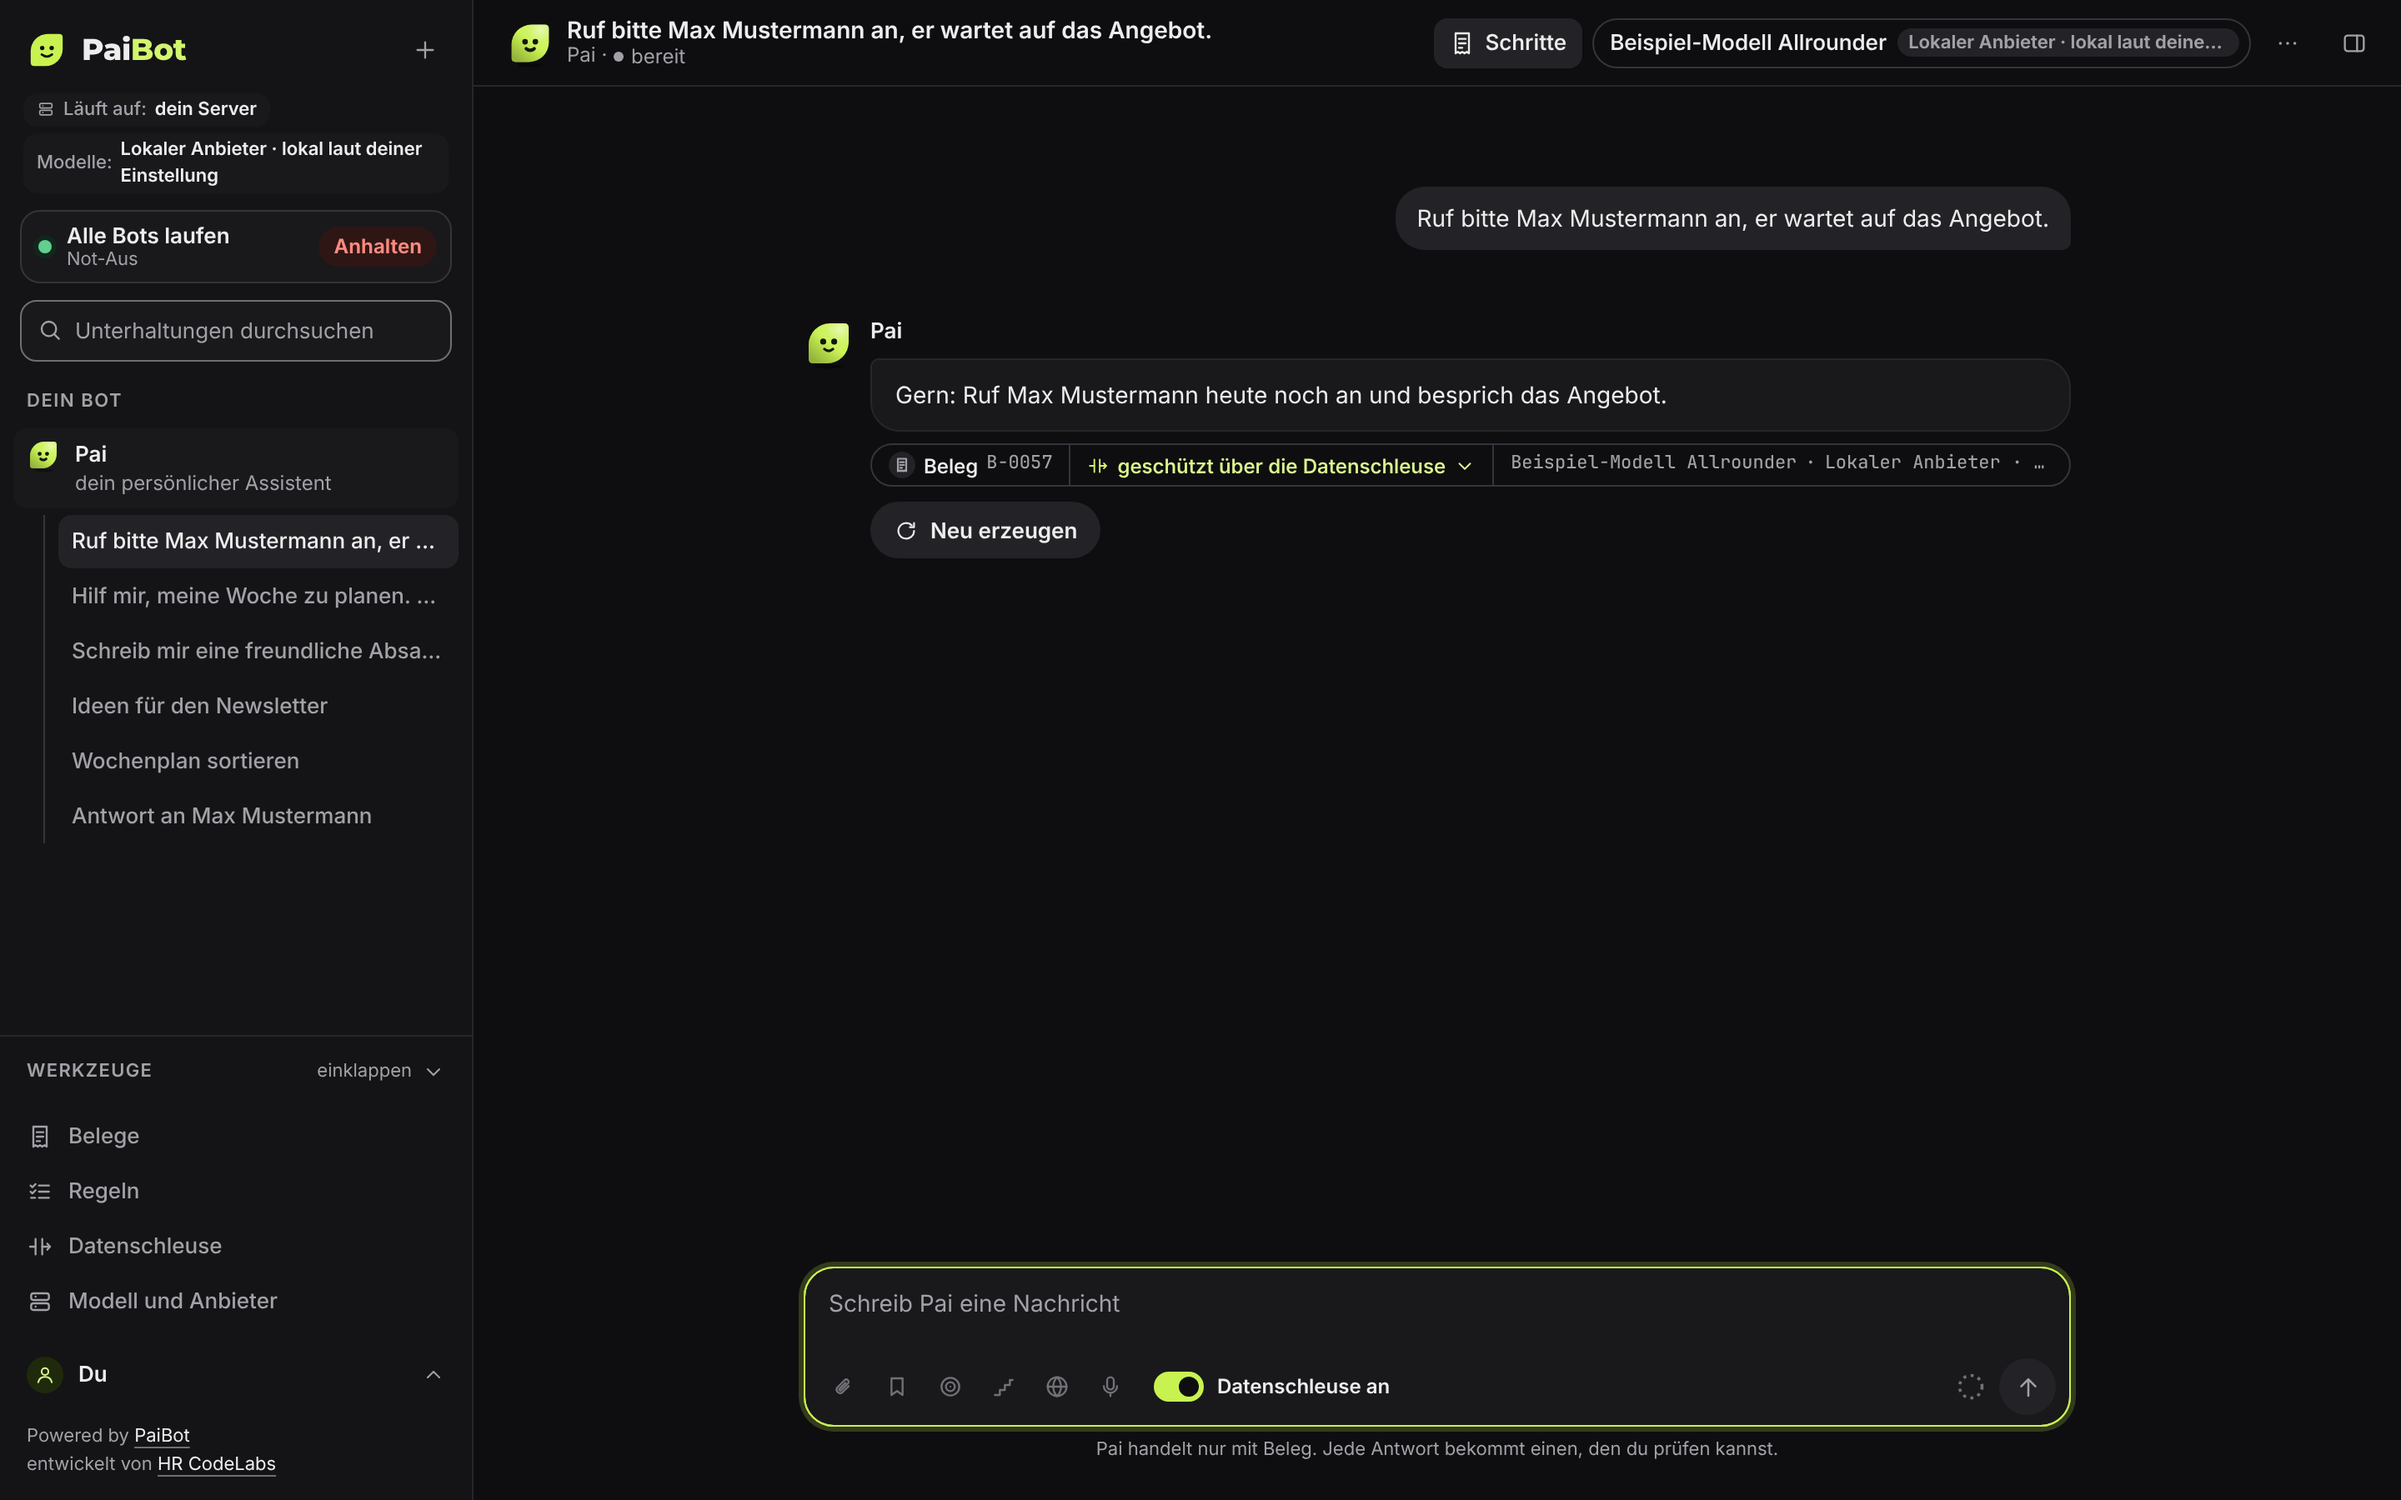
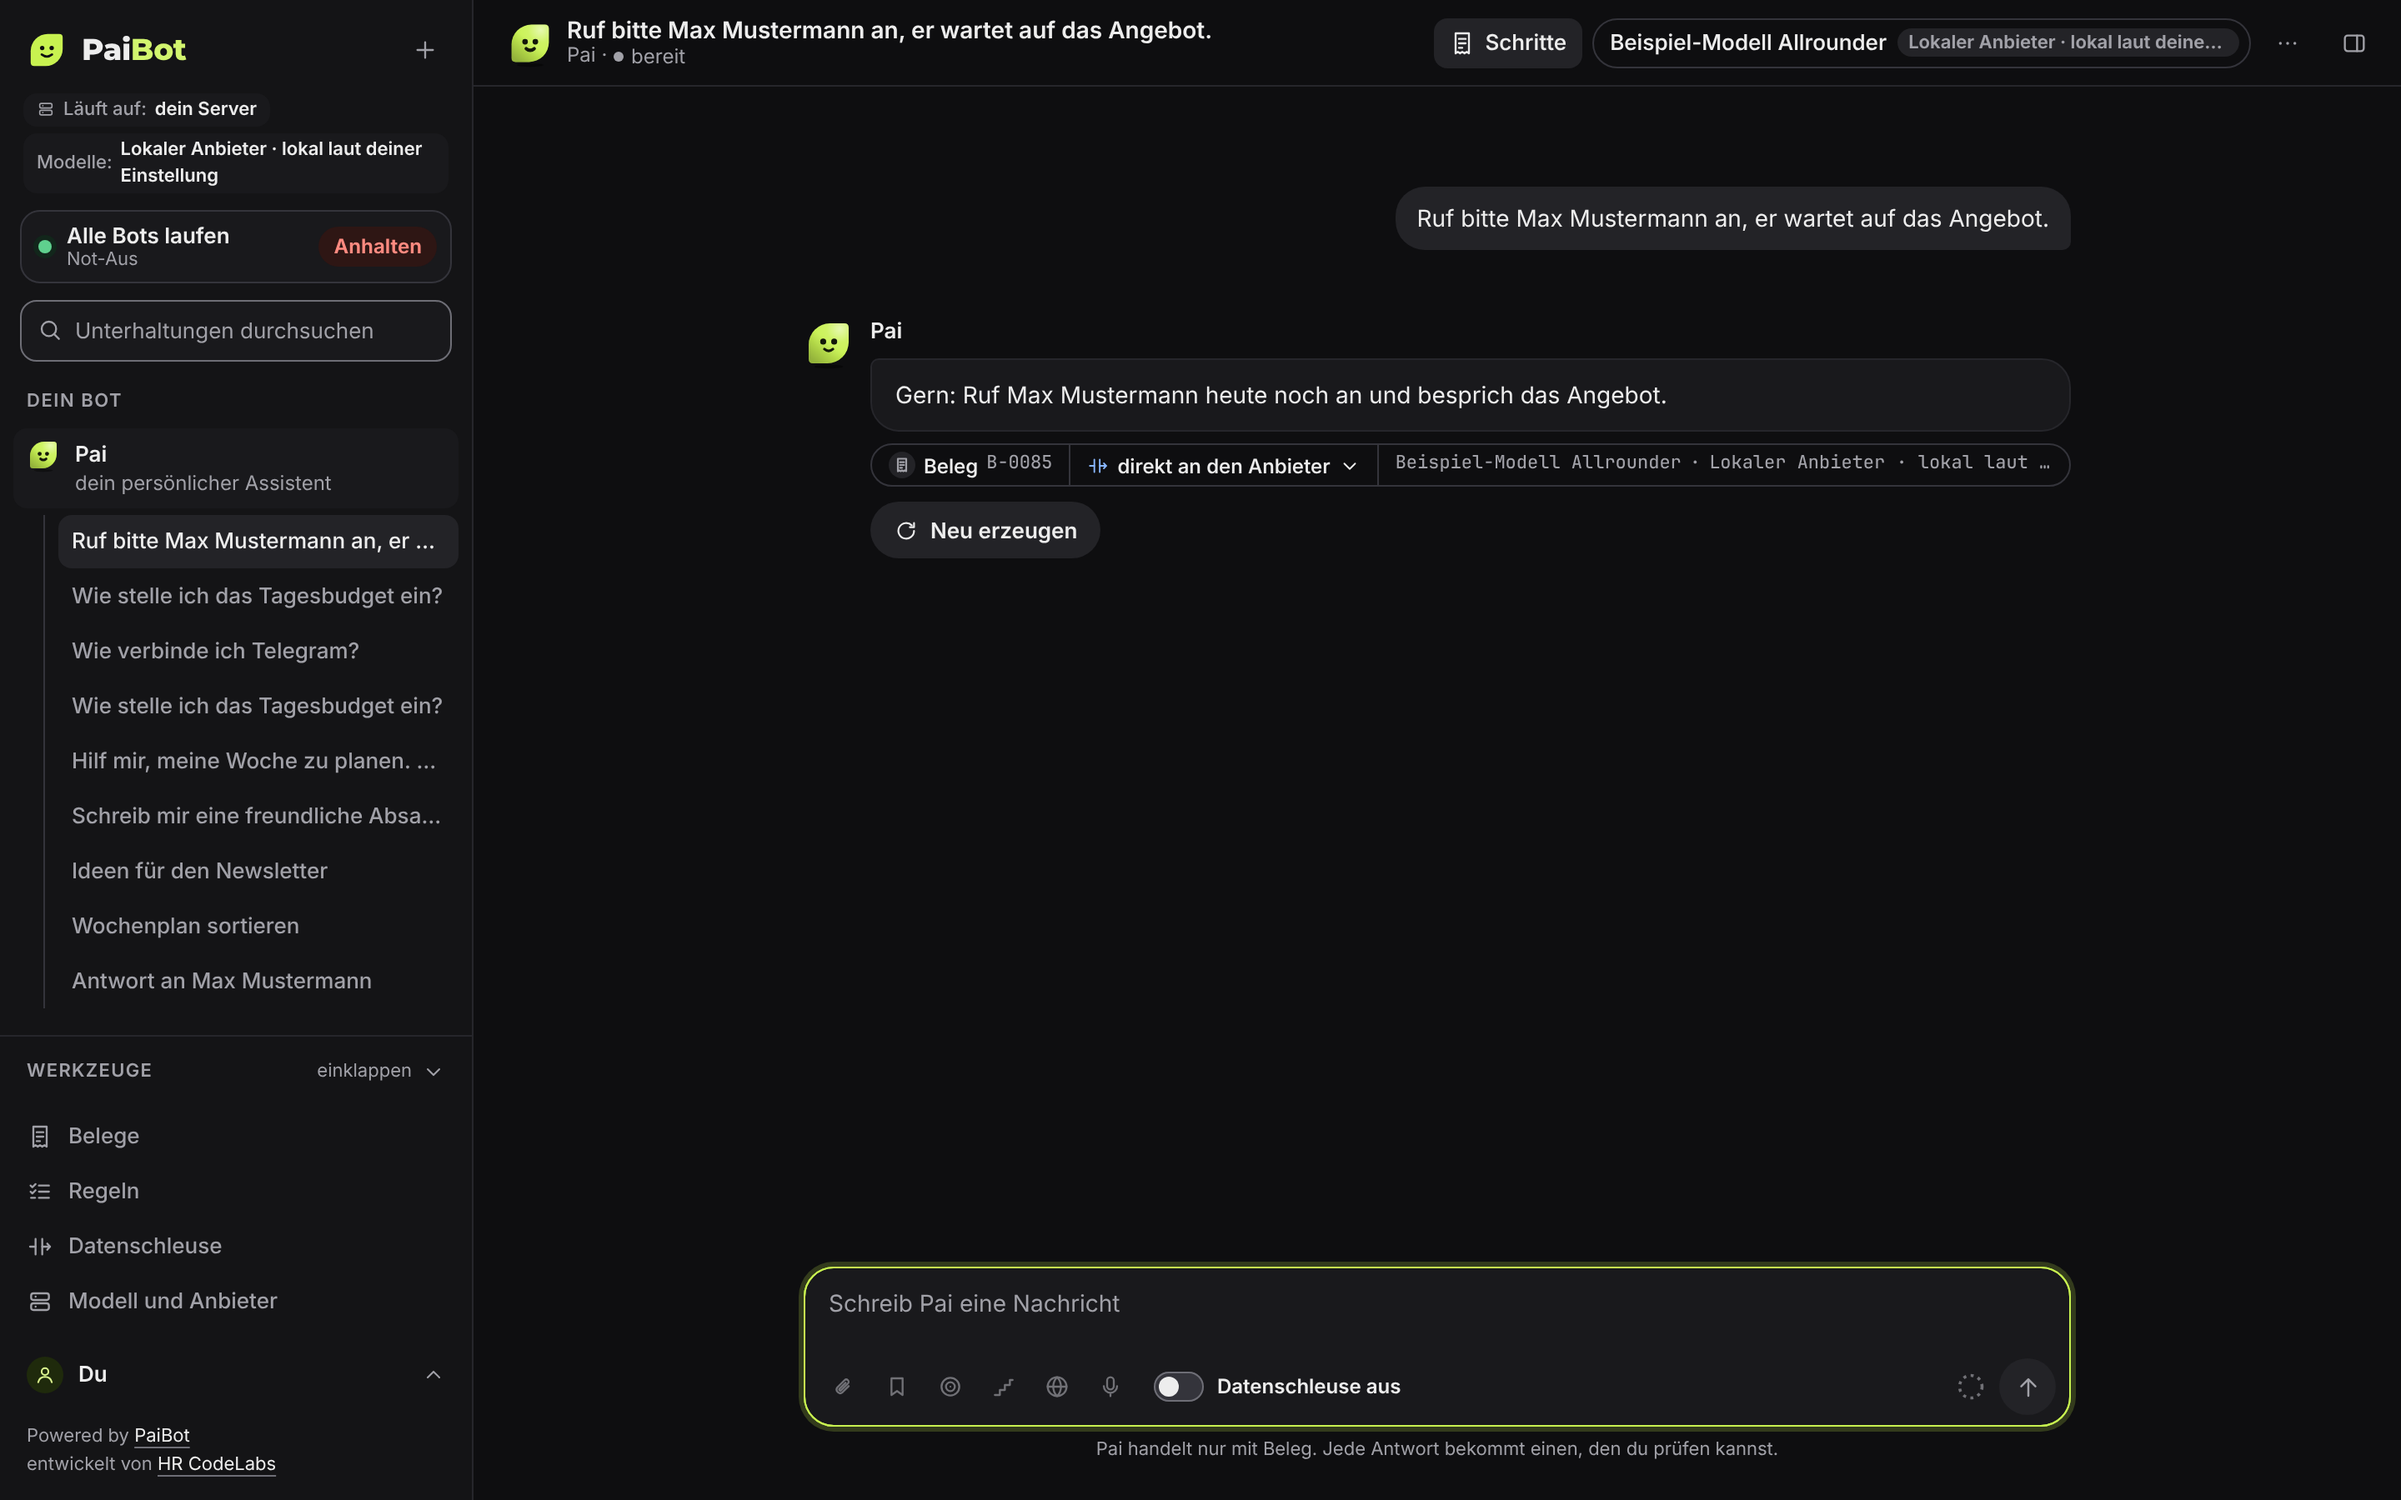
docs(bilder): Ablauf für den Test-Anbieter in den Aufnahmen, neue und neu aufgenommene Chat-Bilder (#81)
Claude-Session: https://claude.ai/code/session_01MLo9cAeNc1r994E5agV7ky

diff --git a/tools/lint-regeln/src/doku-bilder.test.ts b/tools/lint-regeln/src/doku-bilder.test.ts
@@ -37,6 +37,7 @@ const lauf = await laden<{
   leseLauf: (datei: string) => Record<string, unknown> | undefined;
   aendereLauf: (aenderung: unknown, datei: string) => Record<string, unknown>;
   loescheLauf: (datei: string) => void;
+  ANBIETER_STANDARD: { script: unknown };
 }>("scripts/doku/lauf.mjs");
 const datenbank = await laden<{
   loescheDatenbank: (
@@ -361,6 +362,21 @@ describe("Beispiel-Umgebung: Datenschleuse, Test-Anbieter, verdeckte Stellen", (
         pruefe([{ name: "x", pfad: "/", vorher: [{ anbieter: { chunkDelayMs: -1 } }] }]),
       ),
     ).toContain("ganze Zahl");
+  });
+
+  // Gegenprobe: die Prüfung der Art „ablauf“ in `scripts/doku/liste.mjs` entfernen → zweiter Teil rot.
+  it("„anbieter“ nimmt einen Ablauf („script“) mit Schritten an und lehnt andere Formen ab", () => {
+    const ablauf = { steps: [{ toolCalls: [{ name: "x", arguments: {} }] }, { text: "Fertig." }] };
+    const [a] = pruefe([{ name: "a", pfad: "/", vorher: [{ anbieter: { script: ablauf } }] }]);
+    expect(a?.vorher).toEqual([{ anbieter: { script: ablauf } }]);
+    for (const schlecht of [[], { steps: [] }, { steps: ["x"] }, "text", null]) {
+      expect(
+        fehlerText(() =>
+          pruefe([{ name: "x", pfad: "/", vorher: [{ anbieter: { script: schlecht } }] }]),
+        ),
+      ).toContain("ein Ablauf mit einer Liste");
+    }
+    expect(lauf.ANBIETER_STANDARD.script).toBeNull();
   });
 
   it("„verdecke“ ist eine Liste von CSS-Selectoren, Standard leer", () => {
